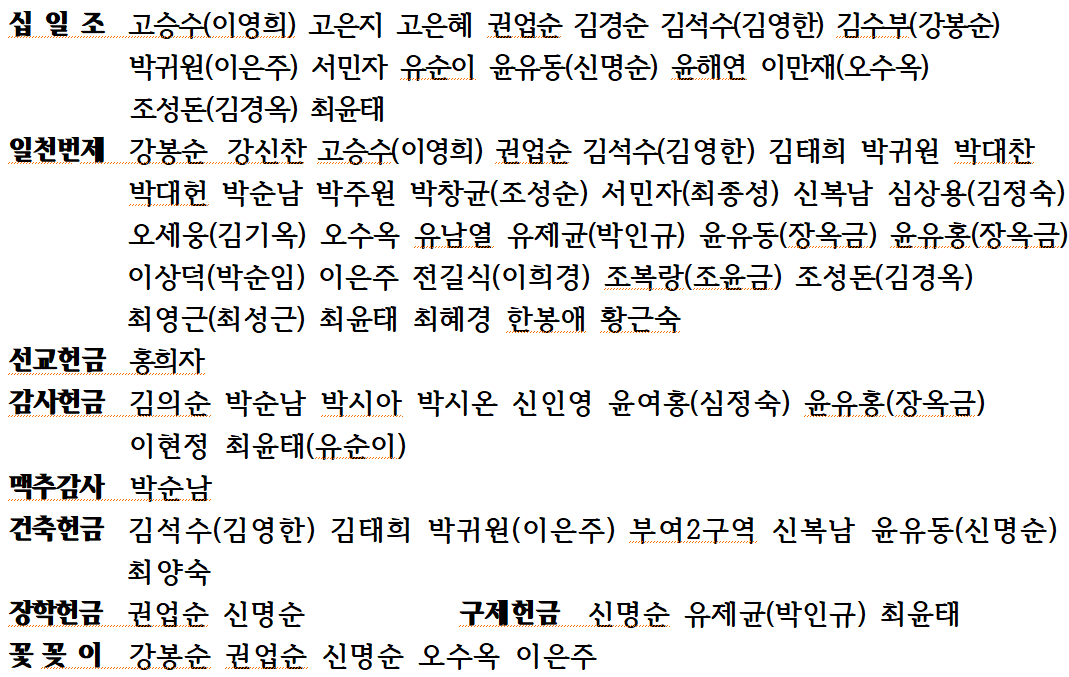
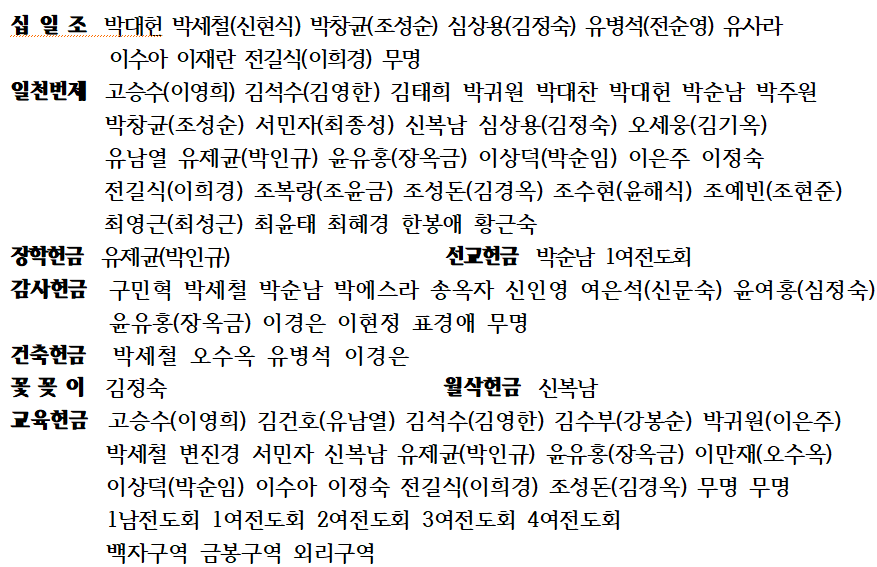
sadfwe
fwef

Changed region(s): [[0.0, 0.0, 1.0, 1.0]]

diff --git a/index.html b/index.html
@@ -63,7 +63,7 @@
       <h1 class="home__title">
         열린문교회<br>
       </h1>
-      <h2 class="home__description">제 4 권 30 호  2024, 7, 28</h2>
+      <h2 class="home__description">제 4 권 31 호  2024, 8, 4</h2>
       
       <!-- 아래는 타이틀임, 안쓸 때는 주석처리하기로 -->
       <!-- <h1 class="home__description_event">맥추감사 주일</h1> -->
@@ -105,7 +105,7 @@
               </tr>
               <tr>    
                   <th><i class="fas fa-male"></i> 찬송</th>
-                  <td>43장</td>
+                  <td>16장</td>
               </tr>
               <!-- <tr>
                   <th><i class="fas fa-male"></i> 교독문</th>
@@ -115,27 +115,27 @@
                   <td>사도신경</td>
               <tr>
                   <th>찬송</th>
-                  <td>342장</td>
+                  <td>534장</td>
               </tr>
               <tr>
                   <th>대표기도</th>
                   <td>
-                    1부 고은혜 집사 <br>
-                    2부 박세철 장로
+                    1부 이은주 권사 <br>
+                    2부 고승수 안수집사
                   </td>
               </tr>
               <tr>
                   <th>성경봉독</th>
                   <td> 
-                    잠 24 : 16 (구 938) 
+                    눅 5 : 1---11 (신 96)
                   </td>
               </tr>
 
               <tr>
                 <th>특송</th>
                 <td>
-                  내가 매일 기쁘게 <br>
-                  염려하지 말라
+                  내 죄 속해주신 주께 <br>
+                  정결하게 하는 샘이
                 </td>
             </tr>
               <tr>
@@ -156,7 +156,7 @@
                 <th>설교</th>
                 <td>
                   <strong>
-                    또 다시
+                    빈자리 
                   </strong>
                 </td>
               </tr>
@@ -168,7 +168,7 @@
               <tr> -->
                 <th>찬송</th>
                 <td>
-                  나의 등 뒤에서
+                  94장
                 </td>
               </tr>
               <tr>
@@ -182,17 +182,17 @@
 
       <!-- <h2>이달의 예배위원 안내</h2> -->
       <ul class="ul2">
-          <li>7월 예배 위원 안내</li>
+          <li>8월 예배 위원 안내</li>
       </ul>
         <table>
           <tbody>
               <tr>
                 <th>헌금위원</th>
-                <td>박귀원 장로, 이수아 권사</td>
+                <td>조성돈 장로, 김정명 집사</td>
               </tr>
               <tr>    
                 <th>안내위원</th>
-                <td>유제균장로, 박인규권사</td>
+                <td>김성수 권사, 김영한 권사</td>
               </tr>
               <tr>
                 <th>(다음주 기도)</th>
@@ -215,7 +215,7 @@
 <ul class="ul1">
   <!-- 밑에 태그는 (저녁예배 타이틀) 안쓰면 주석처리하기로 -->
   <li>주일 오후 7시30분</li>
-  <!-- <li>7월 선교예배</li> -->
+  <li>8월 선교예배</li>
   <!-- <li>기공감사 예배</li> -->
 </ul>
 <table>
@@ -241,31 +241,31 @@
     <!-- 여기까지 부흥회 일정 -->
     <tr>
       <th>기도</th>
-      <td>이희경 권사</td>
-    </tr>
-    <tr>
-      <th>성경</th>
-      <td>출 13 : 1---22</td>
-    </tr>
-    <tr>
-      <th>특송</th>
-      <td>부여1구역</td>
-    </tr>
-    <tr>
-      <th>설교</th>
-      <td>무교절</td>
-    </tr>
-    <tr>
-      <th>찬송</th>
-      <td>310 장, 허락하신 새 땅에</td>
-    </tr>
-    <tr>
-      <th>다음주 기도</th>
       <td>신명순 권사</td>
     </tr>
     <tr>
+      <th>성경</th>
+      <td>계 22 : 12</td>
+    </tr>
+    <tr>
+      <th>특송</th>
+      <td>부여2구역</td>
+    </tr>
+    <tr>
+      <th>설교</th>
+      <td>내가 줄 상 (조성돈장로)</td>
+    </tr>
+    <tr>
+      <th>찬송</th>
+      <td>502 장, 허락하신 새 땅에</td>
+    </tr>
+    <tr>
+      <th>다음주 기도</th>
+      <td>신현식 권사</td>
+    </tr>
+    <tr>
       <th>다음주 특송</th>
-      <td>부여 2 구역</td>
+      <td>백강 구역</td>
     </tr>
 
     <!-- 직원세미나 일정 -->
@@ -340,7 +340,7 @@
     </tr>
     <tr>  
       <th>성경</th>
-      <td>시편 137편</td>
+      <td>시편 138편</td>
     </tr>  
 
     <!-- <tr>
@@ -462,9 +462,10 @@
         </div>
         <h1 class="major__title">암송말씀</h1>
         <div class="major__description">
-          <p>하나님의 은사와 부르심에는</p>
-          <p>후회하심이 없느니라</p>
-          <p>(로마서 11:29)</p>
+          <p>그가 사모하는 영혼에게 만족을 주시며</p>
+          <p>주린 영혼에게 좋은 것으로
+            채워주심이로다</p>
+          <p>(시편 107:9)</p>
         </div>
       </div>
     </section>
@@ -497,38 +498,27 @@
               </p><br>
 
               <p><a href="">2.</a>
-                8월 월삭일은 목요일 5시 50분에 건축현장에서 드립니다.
+                오늘 저녁예배는 8월 선교예배로 드립니다.
               </p><br>
 
               <p><a href="">3.</a>
-                8월 선교예배는 다음주일 저녁입니다. 
+                대전 하늘영광교회 통합 및 이취임식 예배 축사 순서로 다녀오겠습니다. 
               </p><br>
 
               <p><a href="">4.</a>
-                8월 달은 무더위로 인해 노방전도는 개인관계전도로 대신하며
-                구역예배는 쉬도록 하겠습니다.
+                1 남전도회 야유회가 토요일(10일, 오전10시, 안면도)에 있습니다.
               </p><br>
 
               <p><a href="">5.</a>
-                오늘 저녁 가나 바쿤사 교회당 봉헌예배가 현지에서 있습니다 
-              </p><br>
-
-              <p><a href="">6.</a>
                 건축 기도문을 활용하여 3만번 이상 기도에 함께 하시기 바랍니다.
               </p><br>
 
+              <p><a href="">6.</a>
+                학생, 청년 수련호가 은혜 중에 마쳤습니다. 기도와 후원에 감사드립니다.
+              </p><br>
+
               <p><a href="">7.</a>
-                교육기관 여름행사를 위해 기도하겠습니다. <br>
-          * 학생, 청년수련회 (8월1-3일, 중부대학, Get Up ! 일어나라), <br>
-          * 어린이 여름성경학교 (8월9,10일, 논산교회, 예수님 따라 힐러 프랜즈), 
-              </p><br>
-
-              <p><a href="">8.</a>
-                8월 예배위원 안내 김수부권사 윤유홍권사, 헌금 김석수권사 김경옥권사
-              </p><br>
-
-              <p><a href="">9.</a>
-                입원 (박순규집사—무릎수술, 대전 을지대병원)
+                어린이 여름성경학교 (8월9,10일, 논산교회)가 진행 되겠습니다. 
               </p><br>
 
               <!-- 다음달 예배위원 안내 -> 지우지 말고 주석 처리해서 활용하자 -->
